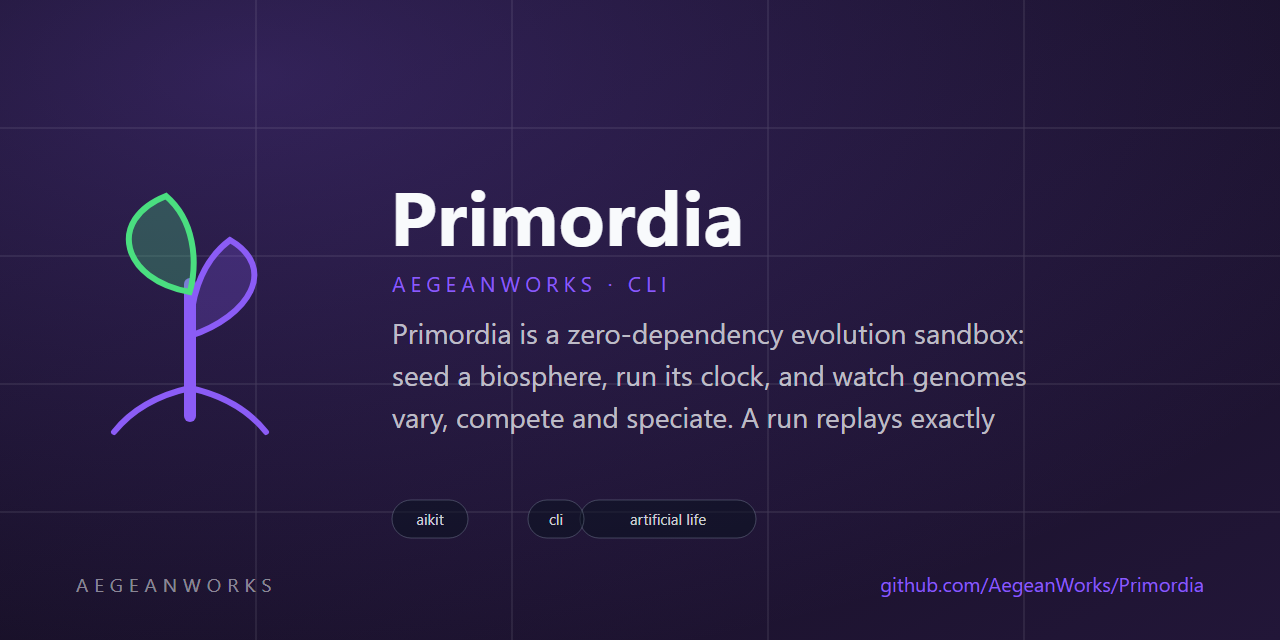
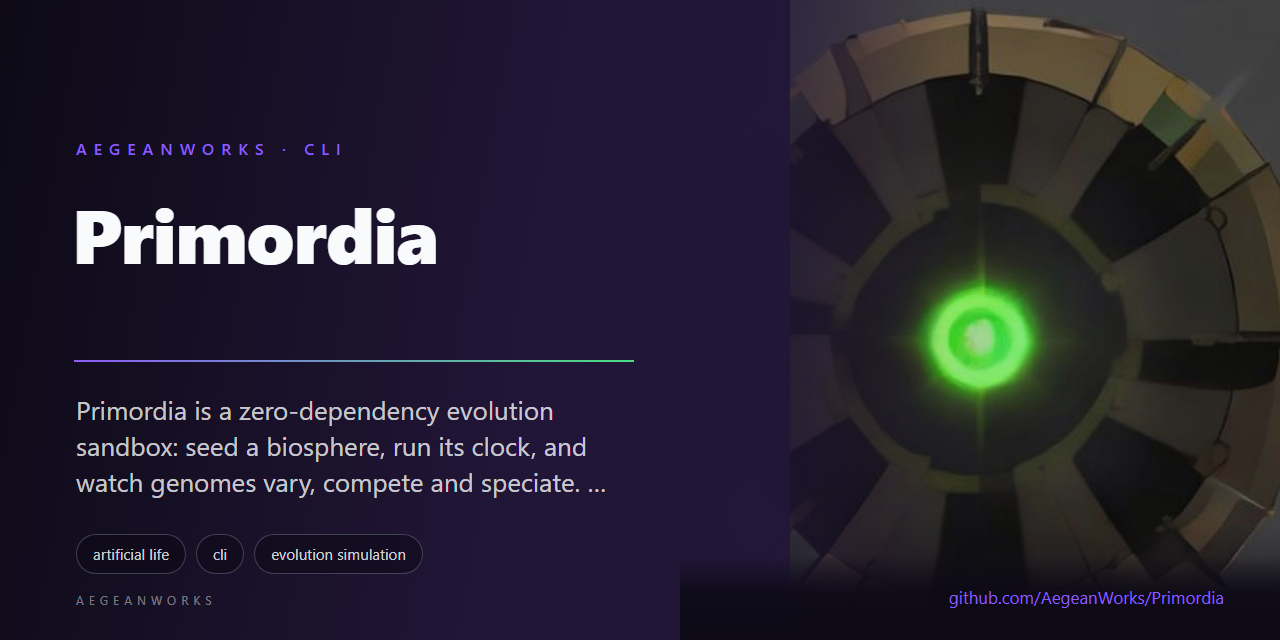
feat(brand): replace procedural marks with reviewed AI-art identities

diff --git a/README.md b/README.md
@@ -1,8 +1,8 @@
 # primordia
 
 <!-- aegean:media:start -->
-<p align="center"><img src="assets/logo.svg" alt="Primordia logo" width="96" height="96"></p>
-<p align="center"><img src="assets/social-preview.svg" alt="Primordia social preview" width="100%"></p>
+<p align="center"><img src="assets/logo.png" alt="Primordia logo" width="96" height="96"></p>
+<p align="center"><img src="assets/social-preview.png" alt="Primordia social preview" width="100%"></p>
 <!-- aegean:media:end -->
 
 [![Built with AIKit](https://img.shields.io/badge/built%20with-AIKit-6f42c1)](https://github.com/AegeanWorks/AIKit)
